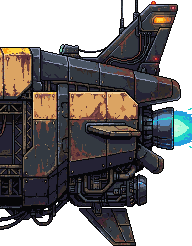
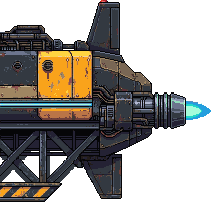
Fatbird: Heck neu streng von der Seite, Rotoren an Fachwerk-Auslegern (#031)
Claude-Session: https://claude.ai/code/session_01DEYRZv4Nv6A49u7JGnmoch

diff --git a/game/play/megarig_view.js b/game/play/megarig_view.js
@@ -277,10 +277,12 @@ export class MegarigView {
     const frameBottom = (b.G - h.under) * T, top = (b.G - h.hullTop) * T, front = h.front * T, back = h.back * T;
     const nose = this.src(V.bow), mid = this.src(V.mid), tail = this.src(V.stern);
     const nw = nose.width * A, nh = nose.height * A, nx = x0 + front + 2 * T - nw, ny = frameBottom + 1.5 * T - nh;
-    const tx = x0 + len - back - 5 * T, ty = top - 4.5 * T, tw = tail.width * A, th = tail.height * A;
+    // #031: the tail lines up with the middle pieces (Kachel-Set › Heck-Zeile = Zeile im Mittelstück: the neon strip), sternInset tiles before the end
+    const [rowT, rowM] = V.sternAlign || [null, null];
+    const tx = x0 + len - back - (V.sternInset ?? 5) * T, ty = rowT != null ? top + (rowM - rowT) * A : top - 4.5 * T, tw = tail.width * A, th = tail.height * A;
     const gx = Math.min(nx, x0) - T, gy = Math.min(ny, ty) - T;
     this.skinCanvas(gx, gy, Math.max(tx + tw, x0 + len) + T - gx, Math.max(ny + nh, ty + th, frameBottom + 2 * T) - gy, A);
-    const end = tx + 4 * T;
+    const end = tx + (rowT != null ? 1 : 4) * T;
     for (let x = x0 + front - T; x < end; x += mid.width * A) this.put(V.mid, x, top, A, false, Math.ceil((end - x) / A));
     this.bays(x0 + front, x0 + front + h.places * h.P * T, top, frameBottom - h.frames * h.S * T, h.places, h.P, h.inside - h.frames, h.S);
     this.put(V.stern, tx, ty, A);
@@ -288,7 +290,7 @@ export class MegarigView {
     this.finishSkin(-6);
     this.glow(nx + 50 * A, ny + 80 * A, 260, 200, C.gold, 0.35);   // the cockpit window
     this.glow(nx + 40 * A, ny + nh - 12 * A, 160, 90, P.neon, 0.5);   // hover nozzle under the nose
-    this.glow(tx + tw - 5 * A, ty + 125 * A, 220, 160, P.neon, 0.5);   // the tail engine
+    this.glow(tx + tw - 5 * A, ty + (V.sternGlow ?? 125) * A, 220, 160, P.neon, 0.5);   // the tail engine
     return true;
   }
 
@@ -437,13 +439,22 @@ export class MegarigView {
     const T = this.T, g = this.gf, P = this.paint, x = p.x * T, y = p.y * T, w = p.w * T;
     const hullX = this.b.x0 * T + (x < this.b.x0 * T ? 2 * T : (this.b.len - 1) * T);
     const hullTop = (this.b.G - this.b.pieces[0].hullTop) * T, ax = x + w / 2;   // outrigger: an arm to the hull roof plus a strut
-    this.g.lineStyle(0.7 * T, col(C.night)).lineBetween(ax, y + 0.8 * T, hullX, hullTop + T);
-    this.g.lineStyle(2 * PX, col(this.paint.dark)).lineBetween(ax, y + 1.4 * T, hullX, hullTop + 2.5 * T);
     const R = this.V.skin?.rotor;
+    if (!(R && this.s.textures.exists(R))) {
+      this.g.lineStyle(0.7 * T, col(C.night)).lineBetween(ax, y + 0.8 * T, hullX, hullTop + T);
+      this.g.lineStyle(2 * PX, col(this.paint.dark)).lineBetween(ax, y + 1.4 * T, hullX, hullTop + 2.5 * T);
+    }
     if (R && this.s.textures.exists(R)) {   // #026: the rotor pod from the tile set, its outrigger stub towards the hull
       const key = R + '_x2';
       if (!this.s.textures.exists(key)) this.s.textures.addCanvas(key, this.fine(R));
       const im = this.src(R), k = w / im.width, left = x < this.b.x0 * T + this.b.len * T / 2;
+      // #031 (Daniel: „die vordere Drohnendüse hängt komplett in der Luft, da muss eine ordentliche Halterung hin“): a truss pylon
+      // from the pod into the hull, behind the skin (it disappears into the hull) plus a strut underneath; both orthogonal
+      const midY = y - 0.3 * T + im.height * k * 0.42, inner = left ? x + w - 0.6 * T : x + 0.6 * T, into = left ? this.b.x0 * T + this.b.pieces[0].front * T + 2 * T : (this.b.x0 + this.b.len - this.b.pieces[0].back - 2) * T;
+      this.pylon(inner, into, midY, 1.3 * T);
+      this.pylon(left ? x + w * 0.62 : x + w * 0.38, into, midY + 1.6 * T, 0.7 * T);
+      const deck = (this.b.G - this.b.pieces[0].hullTop) * T;   // and a post from the beam down onto the deck, so nothing hangs in the air
+      this.post(into + (left ? -0.6 : 0) * T, midY - 0.65 * T, deck + T, 1.2 * T);
       this.s.add.image(x, y - 0.3 * T, key).setOrigin(0).setScale(k / 2).setFlipX(left).setDepth(-3);
       this.glow(x + w / 2, y + im.height * k + 0.4 * T, w * 1.1, 1.6 * T, P.neon, 0.5);
       this.blink(x + w * (left ? 0.44 : 0.56), y - 0.2 * T, P.light);
@@ -460,6 +471,32 @@ export class MegarigView {
     this.blink(x + w / 2, y - PX, P.light);
   }
 
+  // a horizontal truss beam (two chords, zigzag braces, rivets, a hazard band at the pod end), from x0 to x1 at centre y, behind the skin
+  pylon(x0, x1, cy, h) {
+    const g = this.s.add.graphics().setDepth(-6.2), a = Math.min(x0, x1), w = Math.abs(x1 - x0), top = cy - h / 2, ch = Math.max(2 * PX, h * 0.22);
+    this.r(g, a, top - PX, w, h + 2 * PX, C.ink, 0.35);   // shadow of the gap
+    for (const yy of [top, top + h - ch]) { this.r(g, a, yy - PX, w, ch + 2 * PX, C.ink); this.r(g, a, yy, w, ch, C.grey); this.r(g, a, yy, w, PX, C.silver); }
+    const step = h * 0.9;
+    g.lineStyle(2 * PX, col(C.ink));
+    for (let xx = a; xx < a + w - step / 2; xx += step) g.lineBetween(xx, top + ch, xx + step / 2, top + h - ch).lineBetween(xx + step / 2, top + h - ch, xx + step, top + ch);
+    g.lineStyle(PX, col(C.steel));
+    for (let xx = a; xx < a + w - step / 2; xx += step) g.lineBetween(xx, top + ch, xx + step / 2, top + h - ch).lineBetween(xx + step / 2, top + h - ch, xx + step, top + ch);
+    for (let xx = a + 8; xx < a + w; xx += 24) { this.r(g, xx, top + ch / 2, PX, PX, C.ink); this.r(g, xx, top + h - ch / 2, PX, PX, C.ink); }
+    const end = x0 < x1 ? x0 : x0 - 0.6 * this.T;   // a clamp at the pod
+    this.r(g, end - PX, top - 2 * PX, 0.6 * this.T + 2 * PX, h + 4 * PX, C.ink); this.r(g, end, top - PX, 0.6 * this.T, h + 2 * PX, this.paint.main);
+    this.hazard(g, end, top + h * 0.35, 0.6 * this.T, h * 0.3);
+  }
+  // a vertical truss post (x = left edge), from y0 down to y1, behind the skin
+  post(x, y0, y1, w) {
+    const g = this.s.add.graphics().setDepth(-6.2), cw = Math.max(2 * PX, w * 0.22), h = y1 - y0;
+    for (const xx of [x, x + w - cw]) { this.r(g, xx - PX, y0, cw + 2 * PX, h, C.ink); this.r(g, xx, y0, cw, h, C.grey); this.r(g, xx, y0, PX, h, C.silver); }
+    const step = w * 0.9;
+    for (const [lw, c] of [[2 * PX, C.ink], [PX, C.steel]]) {
+      g.lineStyle(lw, col(c));
+      for (let yy = y0; yy < y1 - step / 2; yy += step) g.lineBetween(x + cw, yy, x + w - cw, yy + step / 2).lineBetween(x + w - cw, yy + step / 2, x + cw, yy + step);
+    }
+    this.r(g, x - 2 * PX, y1 - 2 * PX, w + 4 * PX, 3 * PX, C.ink); this.r(g, x - PX, y1 - PX, w + 2 * PX, PX, this.paint.main);   // foot plate
+  }
   logo(g, x, y, s, c) {   // the triangle mark of the concept art
     g.fillStyle(col(c), 0.9).fillTriangle(x, y + s, x + s / 2, y, x + s, y + s);
     g.fillStyle(col(this.paint.main), 1).fillTriangle(x + s * 0.25, y + s * 0.82, x + s / 2, y + s * 0.38, x + s * 0.75, y + s * 0.82);

diff --git a/engine/schema.js b/engine/schema.js
@@ -1002,6 +1002,7 @@ export const AREAS = {
         num('skin.scale', 'Maßstab', { min: 1, step: 0.25, hint: 'Bildpixel → Spielpixel für Mittelstück und Fahrwerk (der Bug passt sich der Rumpfhöhe an)' }),
         num('skin.sternScale', 'Heck-Maßstab', { min: 0.5, step: 0.05, hint: 'Crawler: Heck so viel größer als das Mittelstück (1,75), nur ohne „Rumpf im Heck“' }),
         range('skin.sternBody', 'Rumpf im Heck von – bis', { unit: 'Bildpixel', hint: '#030: Zeilen im Heck-Bild, die vom Deck bis zur Kettenoberkante reichen; das Heck skaliert sich darauf' }),
+        point('skin.sternAlign', 'Heck-Zeile = Mittelstück-Zeile', { unit: 'Bildpixel', hint: '#031 Fatbird: diese Zeile im Heck (z. B. das Neonband) liegt auf jener Zeile im Mittelstück' }), num('skin.sternInset', 'Heck beginnt vor dem Ende', { unit: 'Kacheln', min: 0 }), num('skin.sternGlow', 'Triebwerk-Glühen in Zeile', { unit: 'Bildpixel', min: 0 }),
         num('skin.sternSlope', 'Schräge ab', { unit: 'Bildpixel', hint: 'Ab hier fällt das Dach des Hecks ab; darüber läuft ein Gitter-Laufsteg auf Deckhöhe weiter' })] },
       { title: 'Lack', fields: [color('paint.main', 'Grundfarbe'), color('paint.dark', 'Dunkel'), color('paint.trim', 'Kanten/Rost'), color('paint.neon', 'Neon'), color('paint.light', 'Positionslichter')] },
       { title: 'Ausbaustufen', fields: [table('stages', 'Ausbaustufen', [text('name', 'Name'), num('mids', 'Mittelstücke', { min: 0 }), num('top', 'Stockwerke obendrauf', { min: 0 }), num('price', 'Ausbau kostet', { unit: 'Δ', min: 0, hint: '#029: im Spiel per Bau-Modus' }), num('hours', 'Dauer', { unit: 'h', min: 0 })],

diff --git a/docs/features/megarigs.md b/docs/features/megarigs.md
@@ -41,6 +41,7 @@ Daniel: „max 100 Generierungen auf Tilesets für die Mega-Rigs. Wichtig ist, d
 - **Kabinendach** (`hull.cabInset` = 8): das begehbare Dach beginnt hinter der schrägen Nase, damit Leyla nicht über der Schräge schwebt. Über dem schrägen Heck läuft ein Gitter-Laufsteg (Code) auf Deckhöhe weiter.
 - **Rotoren** aus dem Teil (vorne gespiegelt, Ausleger zum Rumpf), **Gashülle** als Pixel-Art aus Code (`envelopePixels`: Zigarrenform, AAP-64-Verlauf mit Dithering, Nähte, Gurte, Flicken, Rost), weil Daniel nur die Fahrzeuge aus KI wollte und das Budget so reicht.
 - **Hersteller-Schriftzug** sitzt jetzt auf der gelben Nase unter der Brücke.
+- **Einheitliche Seitenansicht** (#031, Daniel: „die räumliche Kante der Container in der obersten Reihe ausblenden“): Container-Bilder an Bord beginnen an der oberen Schiene (`setCrop` ab Bildzeile 83), kein Streifen Dach von oben mehr. **Fatbird:** neues Heck streng von der Seite (PixelLab 10, Kachel-Set › Heck-Zeile = Mittelstück-Zeile 103/84, Heck beginnt 11 Kacheln vor dem Ende); die Rotoren hängen an **Fachwerk-Auslegern** (`pylon`, zwei Träger hinter der Haut in den Rumpf) und einem **Pfosten bis aufs Deck** (`post`) statt einer dünnen Linie (Daniel: „die vordere Drohnendüse hängt komplett in der Luft“).
 - **Neues Crawler-Heck** (#030, Daniel: „sieht noch nicht ganz orthogonal aus“: das alte hatte rechts ein Stück Rückansicht, Grill frontal, zwei Rücklichter, Auspuffe nebeneinander): PixelLab neu in Zielgröße mit Bug und Mittelstück als Referenz (10 Generierungen). Kachel-Set › Rumpf im Heck (24–200) skaliert es genau vom Deck bis zur Kette, Schräge ab 104 (Laufsteg darüber). Altes Bild in `source/crawler_stern_v1.png`.
 
 ## Aufgeräumt (#027, Daniel 15.11.2026)

diff --git a/docs/changelog.md b/docs/changelog.md
@@ -2,6 +2,7 @@
 
 Verlauf: was wann gebaut wurde (früher `CLAUDE.md` › Stand). Neue Einträge oben.
 
+- 15.11.2026: **Seitenansicht vereinheitlicht** (#031): Container an Bord ohne Dachkante; Fatbird mit neuem Heck streng von der Seite und Rotoren an Fachwerk-Auslegern mit Pfosten aufs Deck.
 - 15.11.2026: **Crawler-Heck streng von der Seite** (#030): neu aus PixelLab, ohne die angeklebte Rückansicht, bündig vom Deck bis zu den Ketten.
 - 15.11.2026: **Mega-Rigs fahren** (#029): nach der Bergung zieht Leyla in Crawler oder Fatbird um, das alte Rig parkt in der Ladebucht. Camp an Bord mit Werkstätten per E und Kommandobrücke als Karte, Bauplan aufs Raster (Container, Räume, Werkstätten, Lichterketten, Ausbaustufen), Budgets wie beim Rig, Crawler langsam und durstig, Fatbird schnell und Luftlinie.
 - 15.11.2026: **Crawler eingerichtet** (#028, Geschmackstest): Werkstätten stehen in Räumen und Containern des Mega-Rigs, Lichterketten hängen zwischen den Container-Dächern, Wand-Banner blenden beim Betreten mit der Außenwand aus.
